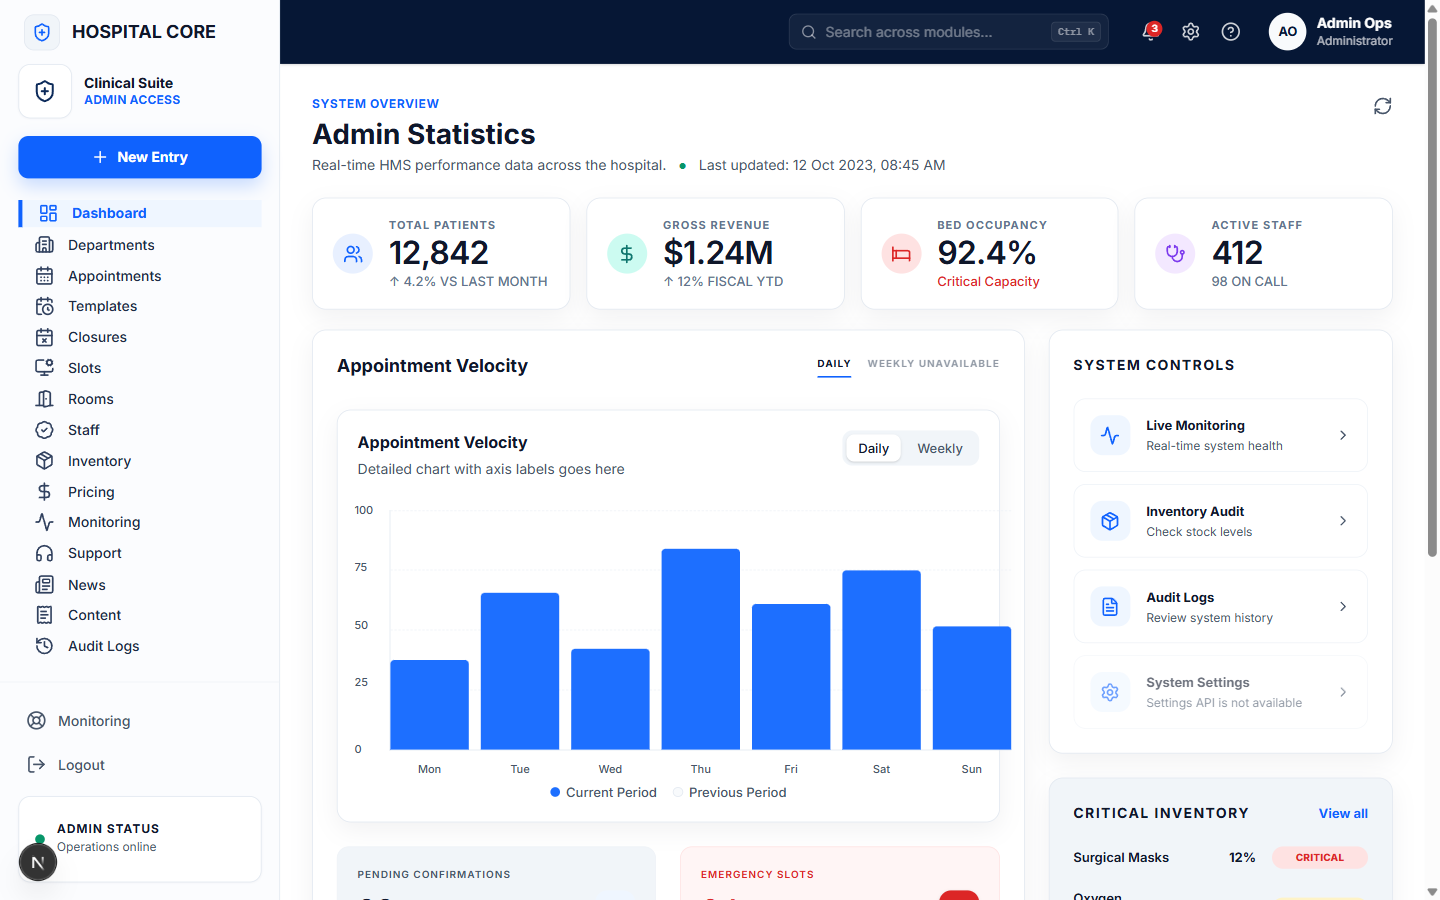
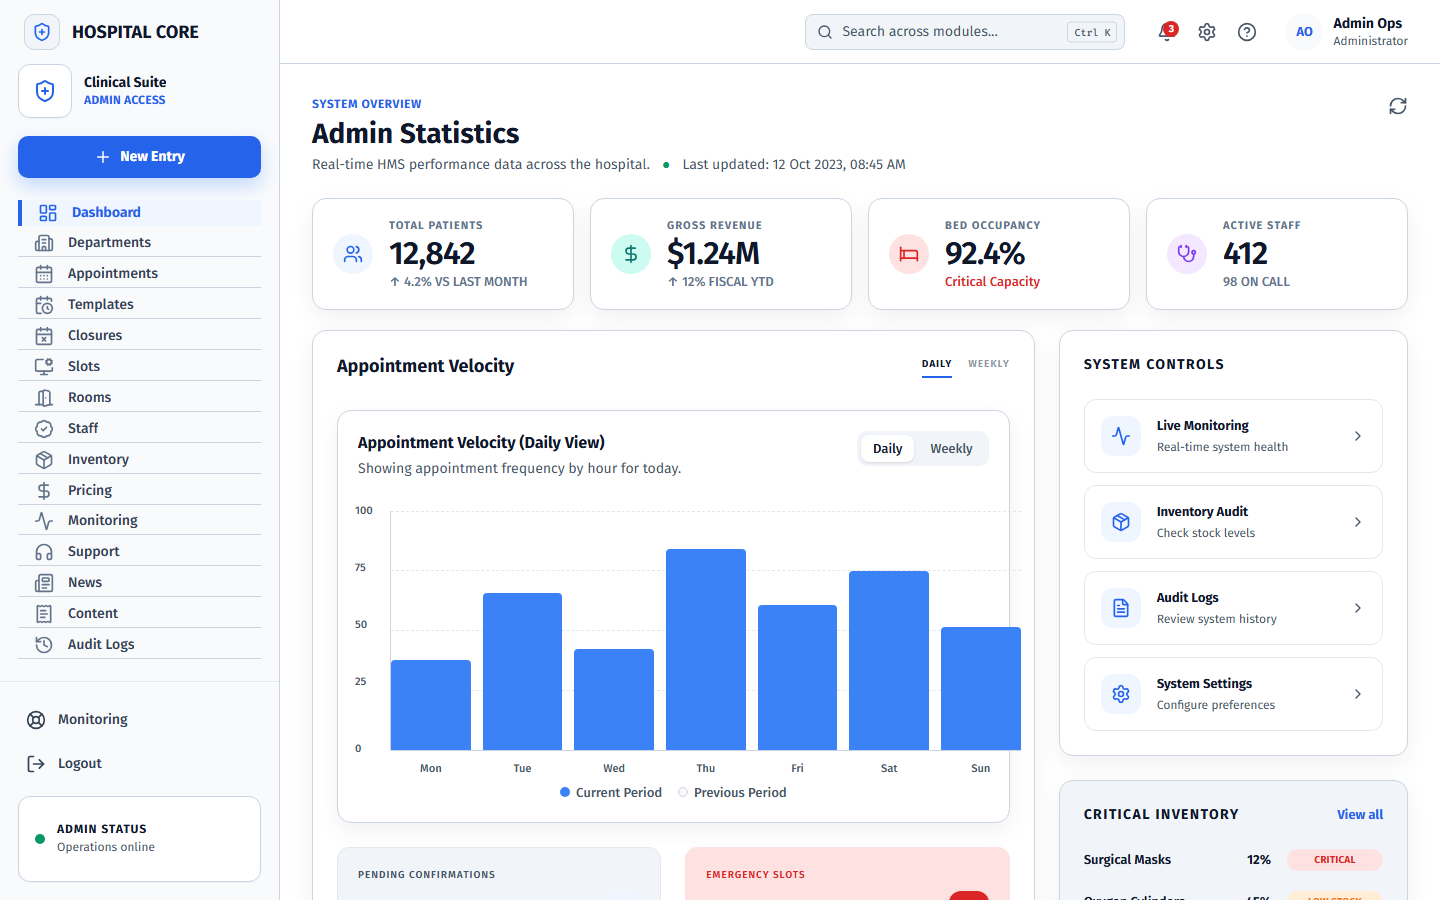
docs: update README with current screenshots and PlantUML architecture diagram

diff --git a/README.md b/README.md
@@ -168,33 +168,61 @@ graph LR
 
 <div align="center">
 
-### 🏠 Public Homepage
-<img src="docs/screenshots/01-homepage.png" alt="HMS Homepage" width="800">
+### 🌐 Public Homepage
+<img src="docs/screenshots/home-page.png" alt="Public Homepage" width="800">
 
-*Modern landing page with department search, doctor highlights, and appointment booking entry point*
+*Modern patient landing page with department search, doctor list, and appointment booking entrance*
 
-### 🏥 Departments & Doctors
-| Departments | Doctors Directory |
-|:-----------:|:-----------------:|
-| <img src="docs/screenshots/02-departments.png" alt="Departments" width="400"> | <img src="docs/screenshots/03-doctors.png" alt="Doctors" width="400"> |
-| *Browse active clinical departments* | *Find doctors by specialty* |
+### 🏥 Staff Login Portal
+<img src="docs/screenshots/staff-login.png" alt="Staff Login Portal" width="800">
 
-### 📰 News & Content
-<img src="docs/screenshots/04-news.png" alt="HMS News" width="800">
+*Secure gateway for clinical and administrative staff*
 
-*Hospital news, health articles, and public announcements*
+### 🩺 Nurse & Clinical Workflows
+| 📋 Nurse Overview | 📅 Nurse Appointment Booking |
+|:-----------------:|:---------------------------:|
+| <img src="docs/screenshots/nurse-overview.png" alt="Nurse Overview" width="400"> | <img src="docs/screenshots/nurse-appointment.png" alt="Nurse Appointment" width="400"> |
+| *Real-time patient schedule, clinical status & queue triage* | *Vitals check-in, clinical task updates & slots scheduler* |
 
-### 🔐 Staff Login (Clinical Suite)
-<img src="docs/screenshots/06-staff-login.png" alt="Staff Login" width="800">
+### 💊 Pharmacy & Inventory
+<img src="docs/screenshots/pharmacy-inventory.png" alt="Pharmacy Inventory" width="800">
 
-*Professional clinical-suite login with system status, version info, and secure access controls*
+*Lot-controlled, FIFO-managed drug inventory with low-stock alerts*
 
-### 📊 Admin Dashboard
-<img src="docs/screenshots/05-admin-dashboard.png" alt="Admin Dashboard" width="800">
+### 🧑 Patient Portal
+<img src="docs/screenshots/portal-overview.png" alt="Patient Portal" width="800">
 
-*Real-time KPI cards — total patients, gross revenue, bed occupancy, active staff — with quick-action tiles*
+*Self-service patient overview showing upcoming appointments, medical records, and care team messages*
+
+### ⚙ Enterprise Administration
+| 📊 Admin Dashboard | 🔄 Queue Triage Panel |
+|:-----------------:|:---------------------:|
+| <img src="docs/screenshots/10-admin-dashboard.png" alt="Admin Dashboard" width="400"> | <img src="docs/screenshots/admin-queue.png" alt="Admin Queue" width="400"> |
+| *Enterprise KPI tracking (revenue, appointments, bed occupancy)* | *Live queue monitoring and wait time analytics* |
 
 </div>
+
+<details>
+<summary><b>🔍 View Full Visual Walkthrough Tour</b></summary>
+
+### 🌐 Public-Facing Experience
+1. **Homepage**: [home-page.png](docs/screenshots/home-page.png) — Public booking landing page
+2. **Patient Portal**: [portal-overview.png](docs/screenshots/portal-overview.png) — Self-service appointments, messages, and lab summaries
+
+### 🏥 Clinical & Triage Workflows
+3. **Staff Login**: [staff-login.png](docs/screenshots/staff-login.png) — Secure entrance for clinical and administrative staff
+4. **Staff Login Background**: [staff-login-background.png](docs/screenshots/staff-login-background.png) — Background doctor image asset
+5. **Nurse Overview**: [nurse-overview.png](docs/screenshots/nurse-overview.png) — Clinical schedule and triage indicators
+6. **Nurse Appointment Booking**: [nurse-appointment.png](docs/screenshots/nurse-appointment.png) — Check-in, vitals tracking & slots booking
+
+### 💊 Pharmacy & Inventory
+7. **Pharmacy Inventory**: [pharmacy-inventory.png](docs/screenshots/pharmacy-inventory.png) — Expiry-safe, lot-controlled drug stocks
+
+### ⚙ System Administration
+8. **Admin Dashboard**: [10-admin-dashboard.png](docs/screenshots/10-admin-dashboard.png) — Enterprise statistics and operational trends
+9. **Admin Queue**: [admin-queue.png](docs/screenshots/admin-queue.png) — Live queue monitoring and wait time analytics
+
+</details>
 
 ---
 
@@ -235,34 +263,66 @@ xychart-beta
 
 ## 🏗 DDD Architecture — Modular Monolith
 
-```
- ┌─────────────────────────────────────────────────────────┐
- │                    start (Composition Root)              │
- │         Flyway Migrations · App Config · Bootstrap       │
- ├─────────────────────────────────────────────────────────┤
- │                   controller (40 Controllers)            │
- │   ┌──────────┬──────────┬──────────┬────────────────┐   │
- │   │   Auth   │  Admin   │ Clinical │  PatientPortal │   │
- │   └──────────┴──────────┴──────────┴────────────────┘   │
- ├─────────────────────────────────────────────────────────┤
- │                 application (Use Cases)                  │
- │   ┌──────────┬──────────┬──────────┬────────────────┐   │
- │   │ Workflow │  Read    │  Write   │   Auth/Security│   │
- │   │ Services │ Services │ Services │   Services     │   │
- │   └──────────┴──────────┴──────────┴────────────────┘   │
- ├─────────────────────────────────────────────────────────┤
- │               infrastructure (Adapters)                  │
- │     Spring Data JPA Repositories · Gmail Client · PDF    │
- ├─────────────────────────────────────────────────────────┤
- │                  domain (17 Bounded Contexts)            │
- │   ┌──────┬──────┬──────┬──────┬──────┬──────┬──────┐    │
- │   │Patient│Appt  │Queue │MedRec│Inven │Invoice│Admin│    │
- │   └──────┴──────┴──────┴──────┴──────┴──────┴──────┘    │
- │   ┌──────┬──────┬──────┬──────┬──────┬──────┬──────┐    │
- │   │ Lab  │ Rx   │User  │Audit │Dept  │Timeslot│Cont│    │
- │   └──────┴──────┴──────┴──────┴──────┴──────┴──────┘    │
- └─────────────────────────────────────────────────────────┘
-     Dependency Flow: domain ← infrastructure ← application ← controller ← start
+```plantuml
+@startuml HMS_Layers
+!theme plain
+skinparam BackgroundColor #FFFFFF
+skinparam ArrowColor #3b82f6
+skinparam NodeBorderColor #3b82f6
+
+package "start (Composition Root)" as start {
+  [Flyway Migrations]
+  [App Config]
+  [Bootstrap]
+}
+
+package "controller (REST Layer)" as controller {
+  [Auth]
+  [Admin]
+  [Clinical]
+  [PatientPortal]
+}
+
+package "application (Orchestration)" as application {
+  [Workflow Services]
+  [Read Services]
+  [Write Services]
+  [Auth/Security Services]
+}
+
+package "infrastructure (Adapters)" as infrastructure {
+  [Spring Data JPA Repositories]
+  [Gmail Client]
+  [PDF]
+}
+
+package "domain (Business Core)" as domain {
+  folder "Patient" as d1
+  folder "Appt" as d2
+  folder "Queue" as d3
+  folder "MedRec" as d4
+  folder "Inven" as d5
+  folder "Invoice" as d6
+  folder "Admin" as d7
+  folder "Lab" as d8
+  folder "Rx" as d9
+  folder "User" as d10
+  folder "Audit" as d11
+  folder "Dept" as d12
+  folder "Timeslot" as d13
+  folder "Cont" as d14
+}
+
+start -down-> controller : uses
+controller -down-> application : uses
+application -down-> infrastructure : uses
+infrastructure -down-> domain : uses
+
+note right of domain
+  Dependency Flow:
+  domain <- infrastructure <- application <- controller <- start
+end note
+@enduml
 ```
 
 **17 Bounded Contexts:** `admin` · `appointment` · `audit` · `common` · `content` · `department` · `email` · `inventory` · `invoice` · `lab` · `medicalrecord` · `patient` · `patientauth` · `patientportal` · `prescription` · `timeslot` · `user`

diff --git a/docs/plan-clean.md b/docs/plan-clean.md
@@ -1,0 +1,93 @@
+# HMS Interview-Ready Cleanup And Security Hardening
+
+  ## Summary
+
+  - Goal: make HMS credible for interviewer review by restoring green gates,
+    hardening security, improving readability, and cleaning files that do not
+    belong in the project.
+
+  - Baseline: dirty worktree, branch ahead by 1 commit, backend mvn verify fails
+    on JaCoCo, frontend lint fails, frontend unit coverage passes but branch
+    coverage is below 80%.
+
+  - Run GitNexus or supported impact analysis before editing target symbols.
+
+  ## Key Changes
+
+  - Restore gates first:
+      - Fix frontend lint without weakening ESLint.
+      - Fix backend JaCoCo with focused infrastructure tests.
+      - Re-run backend/frontend gates before deeper cleanup.
+
+  - Harden security:
+      - Stop storing access tokens in sessionStorage; use in-memory tokens plus
+        httpOnly refresh cookies.
+
+      - Add origin/CSRF-style protection for cookie-backed refresh/logout/claim
+        flows.
+
+      - Gate Swagger/OpenAPI and Prometheus behind auth or explicit demo/local
+        flags.
+
+      - Externalize demo/default passwords and protect demo seeding outside dev/
+        demo.
+
+  - Clean unnecessary files:
+      - Audit tracked artifacts with git ls-files and reference search before
+        deletion.
+
+      - Remove stale local/runtime files such as stack dumps, frontend/
+        ts_errors.txt, .codegraph/daemon.pid, old logs, one-off refactor scripts,
+        and unused local report files.
+
+      - Remove or relocate raw screenshot capture folders like screen-demo/,
+        frontend/screenshot-each-page/**, and frontend/screenshots/*_init.png
+        when not referenced by docs/tests.
+
+      - Keep intentional assets: README/docs screenshots, Playwright visual
+        baselines, public images, and any file referenced by docs or automated
+        tests.
+
+      - Tighten .gitignore, frontend .gitignore, and .dockerignore so these files
+        do not return.
+
+  - Improve readability:
+      - Refactor noisy files after gates are green: api-client, top-nav, admin
+        inventory/support, and largest staff/admin pages.
+
+      - Extract shared badges, empty/error states, export helpers, and dashboard
+        sections.
+
+  ## Comment Policy
+
+  - Add concise reader-support comments for every touched or newly extracted
+    production function, method, React component, hook, and important helper.
+
+  - Comments should explain intent, inputs/outputs, side effects, security
+    assumptions, or workflow role.
+
+  - Avoid comments that merely repeat obvious code.
+  - Prioritize comments in security, auth, PHI, domain workflow, and shared
+    utility code.
+
+  ## Test Plan
+
+  - Required gates: mvn.cmd verify, npm run lint, npm run test:unit:coverage, npm
+    run build.
+
+  - Security tests: refresh/logout origin rejection, cookie attributes, no
+    refresh token in JSON, no access token in durable browser storage, gated
+    Swagger/Prometheus.
+
+  - Cleanup checks: git status, git diff --check, tracked-artifact scan, docs/
+    test reference scan for deleted files.
+
+  - Final smoke: Docker Compose config validation and targeted Playwright auth/
+    portal/admin/staff flows.
+
+  ## Assumptions
+
+  - Do not commit or push until explicitly requested.
+  - Preserve unrelated dirty worktree changes.
+  - Treat repo as interview-ready/release-candidate, not unconstrained
+    “Production Ready,” unless full verification and waivers are resolved.
